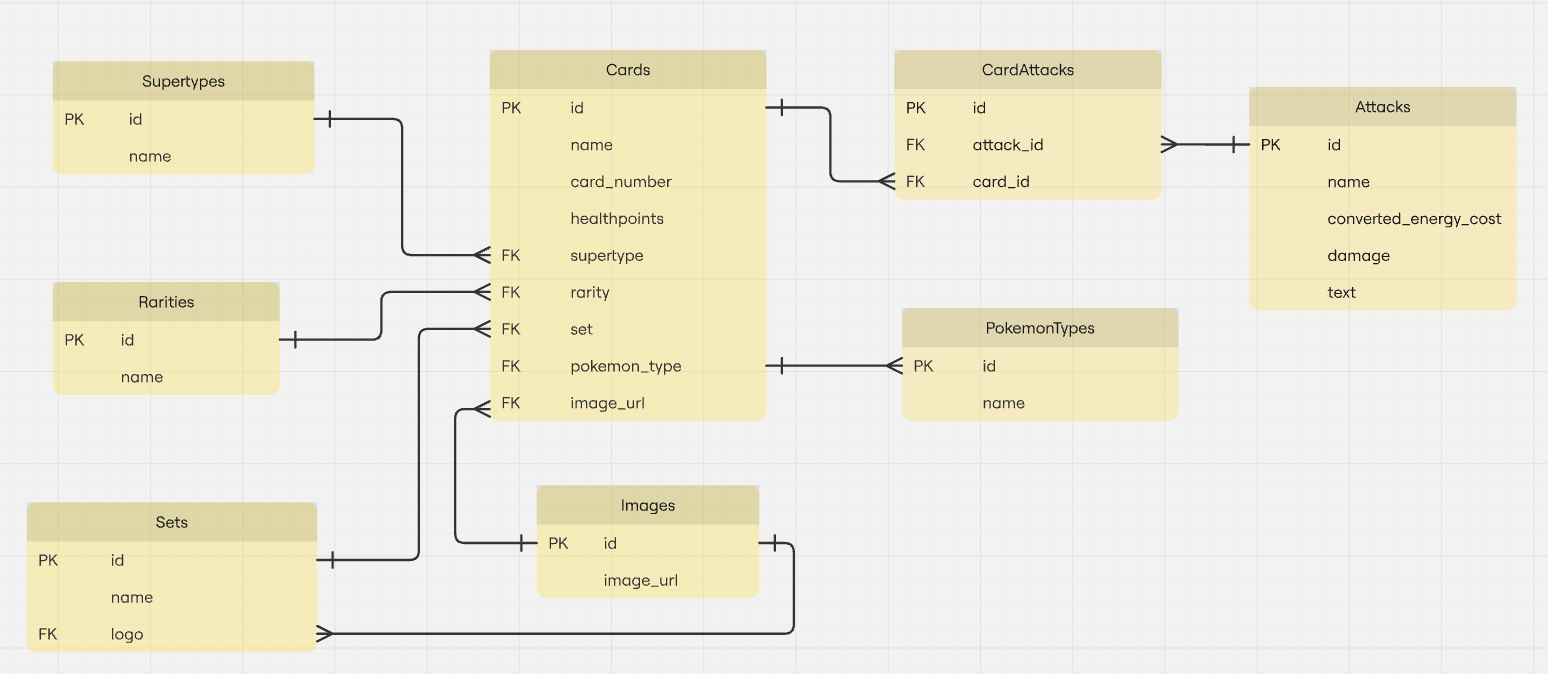
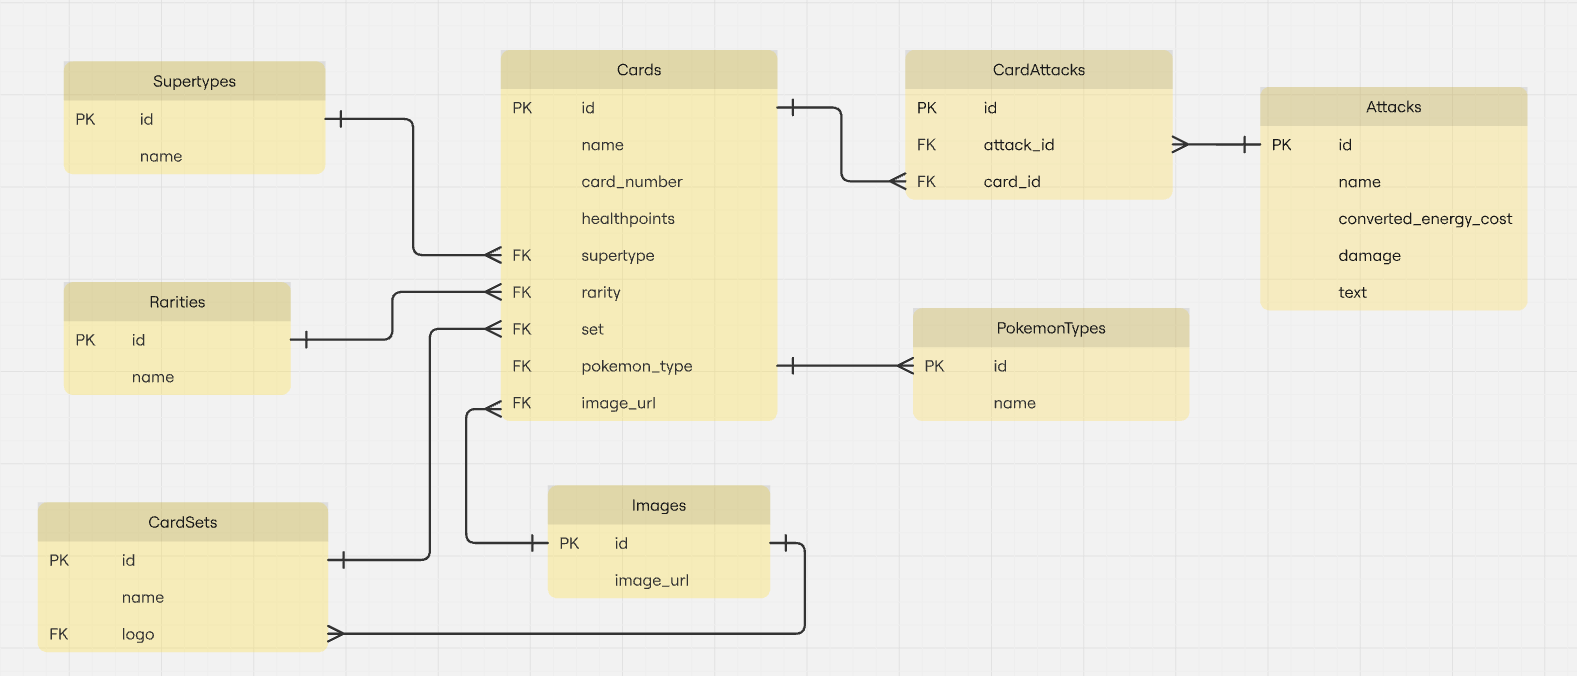
Minor change to image, updated associations in Card model, renamed set_id column to card_set_id, and migrated db.

diff --git a/db/schema.rb b/db/schema.rb
@@ -10,7 +10,7 @@
 #
 # It's strongly recommended that you check this file into your version control system.
 
-ActiveRecord::Schema[8.0].define(version: 2025_10_27_032634) do
+ActiveRecord::Schema[8.0].define(version: 2025_10_27_040124) do
   create_table "attacks", force: :cascade do |t|
     t.string "name"
     t.integer "converted_energy_cost"
@@ -47,12 +47,12 @@ ActiveRecord::Schema[8.0].define(version: 2025_10_27_032634) do
     t.integer "supertype_id"
     t.integer "rarity_id"
     t.integer "pokemon_type_id"
-    t.integer "set_id"
+    t.integer "card_set_id"
     t.integer "image_url_id"
+    t.index ["card_set_id"], name: "index_cards_on_card_set_id"
     t.index ["image_url_id"], name: "index_cards_on_image_url_id"
     t.index ["pokemon_type_id"], name: "index_cards_on_pokemon_type_id"
     t.index ["rarity_id"], name: "index_cards_on_rarity_id"
-    t.index ["set_id"], name: "index_cards_on_set_id"
     t.index ["supertype_id"], name: "index_cards_on_supertype_id"
   end
 
@@ -83,7 +83,7 @@ ActiveRecord::Schema[8.0].define(version: 2025_10_27_032634) do
   add_foreign_key "card_attacks", "attacks"
   add_foreign_key "card_attacks", "cards"
   add_foreign_key "card_sets", "images", column: "logo_id"
-  add_foreign_key "cards", "card_sets", column: "set_id"
+  add_foreign_key "cards", "card_sets"
   add_foreign_key "cards", "images", column: "image_url_id"
   add_foreign_key "cards", "pokemon_types"
   add_foreign_key "cards", "rarities"

diff --git a/app/models/card.rb b/app/models/card.rb
@@ -1,6 +1,10 @@
 class Card < ApplicationRecord
-  belongs_to :set, class_name: "CardSet", foreign_key: "set_id"
-  belongs_to :supertype, :rarity, :pokemon_type, :image_url, class_name: "Image"
+  belongs_to :card_set
+  belongs_to :supertype
+  belongs_to :rarity
+  belongs_to :pokemon_type, optional: true
+  belongs_to :image_url, class_name: "Image"
+
   has_many :card_attacks
   has_many :attacks, through: :card_attacks
   validates :name, :card_number, :supertype, :rarity, :card_set, :image_url, presence: true

diff --git a/db/migrate/20251027040124_rename_set_id_column_in_cards_table.rb b/db/migrate/20251027040124_rename_set_id_column_in_cards_table.rb
@@ -1,0 +1,5 @@
+class RenameSetIdColumnInCardsTable < ActiveRecord::Migration[8.0]
+  def change
+    rename_column :cards, :set_id, :card_set_id
+  end
+end
